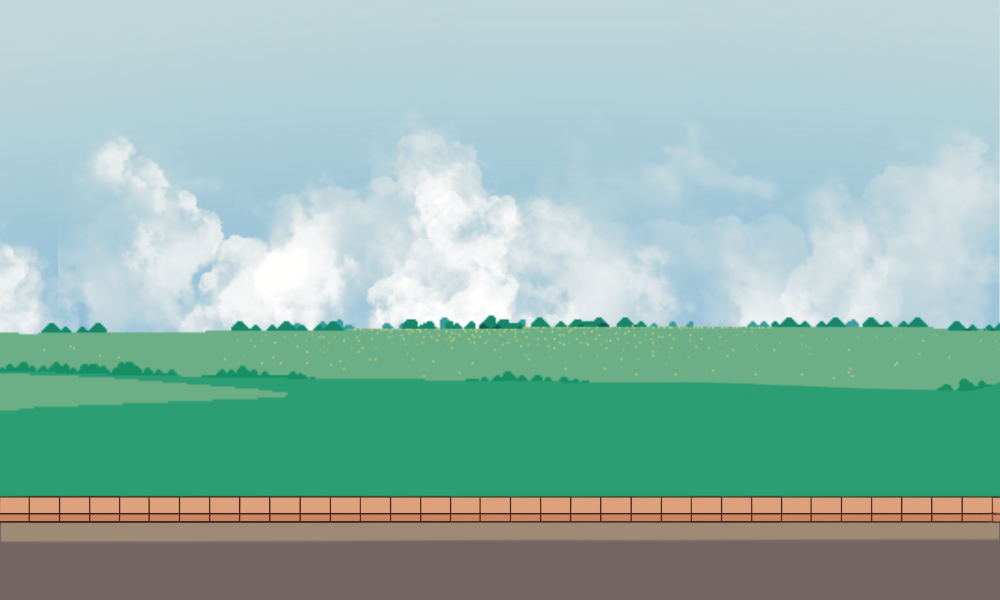
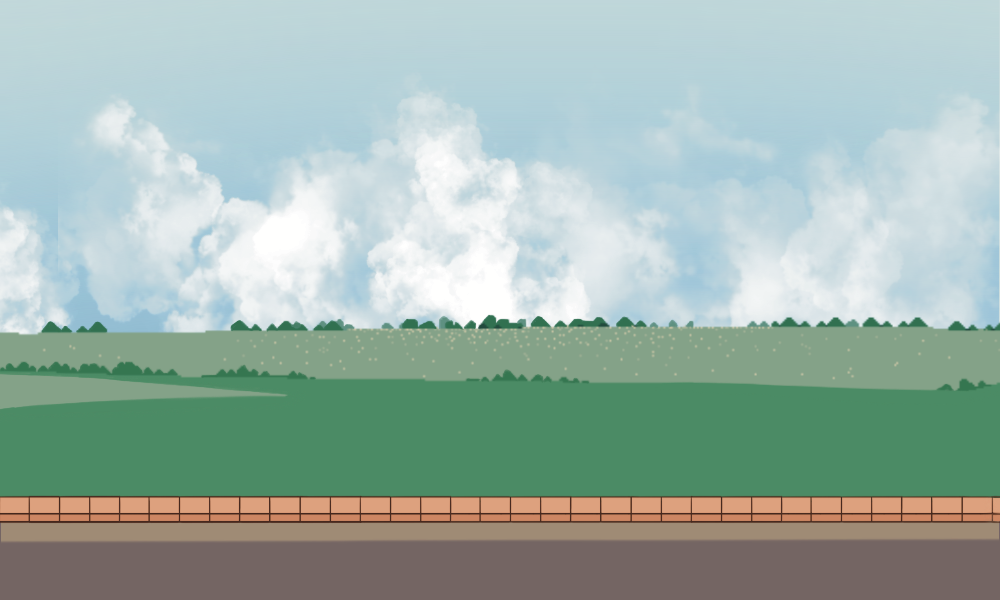
modify backgriund

diff --git a/level_folder/level_2/config.py b/level_folder/level_2/config.py
@@ -37,7 +37,7 @@ level_config = {
     ],
     "spawn_interval": 2500,
     "survival_time": 90,
-    "background_path": "background/background2.png",
+    "background_path": "background/background4.png",
     "our_tower": {
         "y": 140,
         "width": 350,
